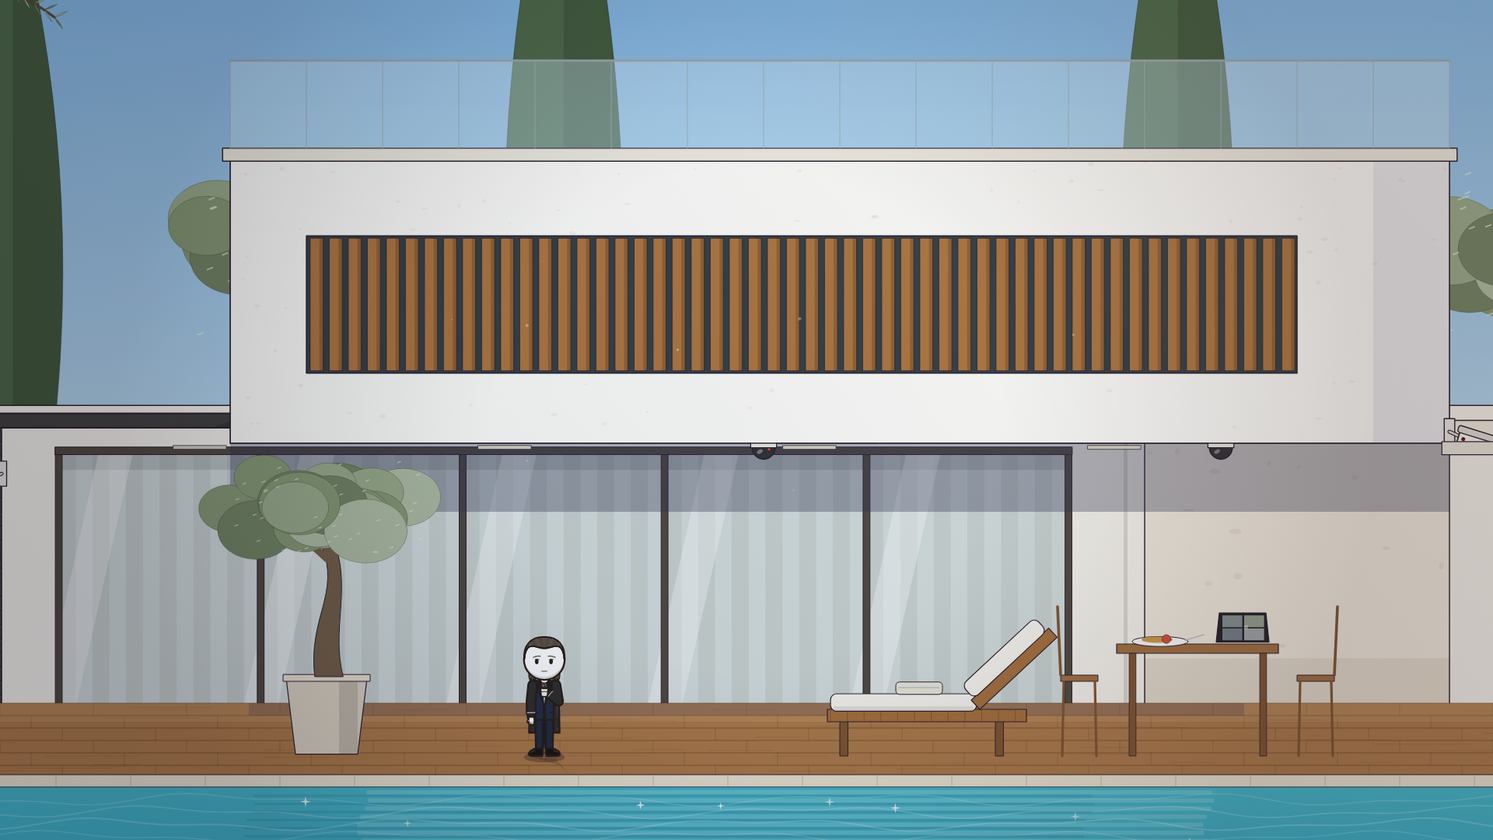
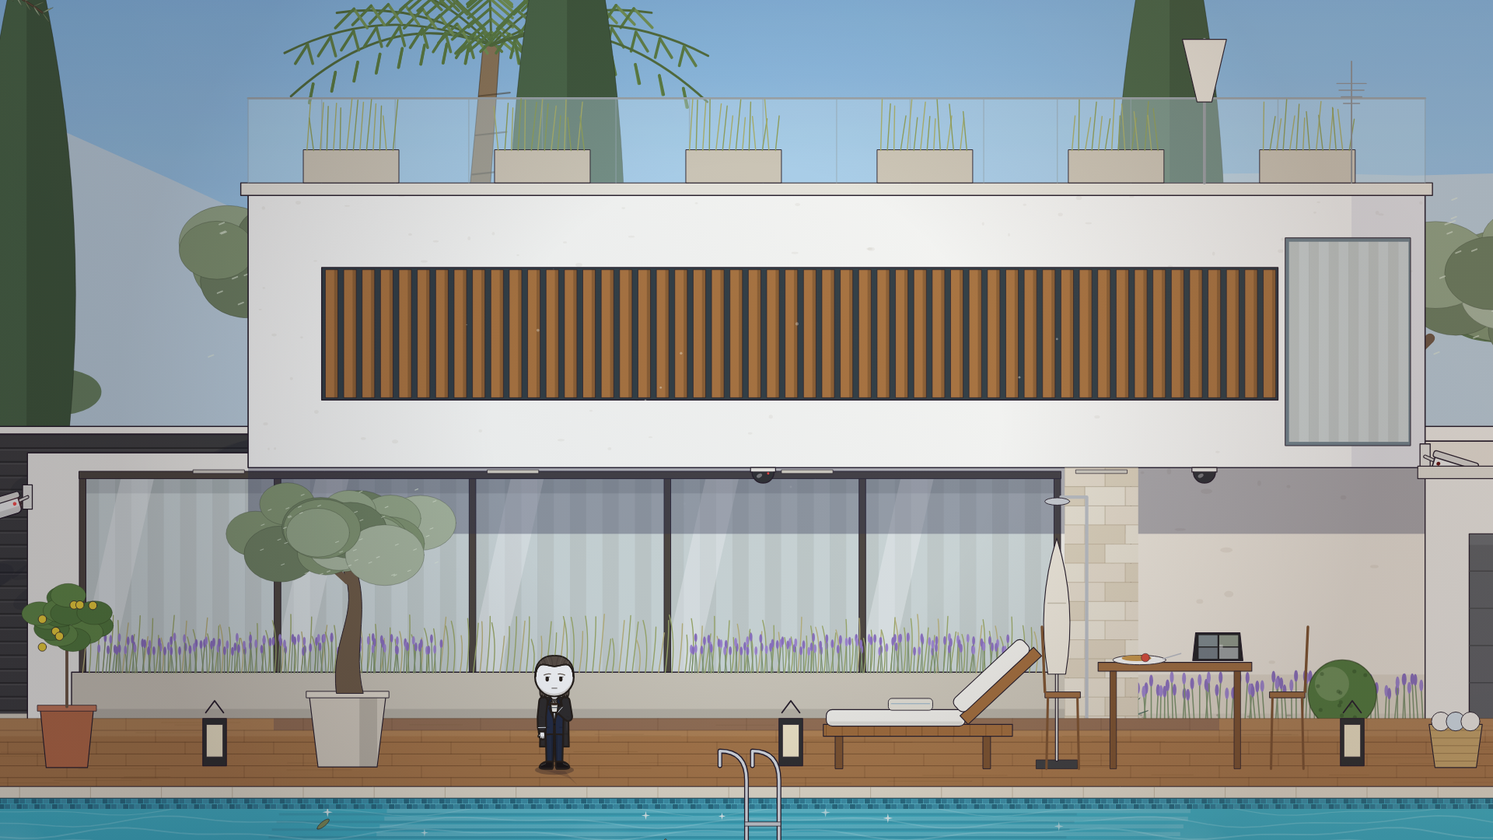
Kartell set test: richer villa/pool backgrounds, valley-view pool shot
Claude-Session: https://claude.ai/code/session_01MkQW4oba4xTMmf1VyQSTrS

diff --git a/films/kartell/lib/places.js b/films/kartell/lib/places.js
@@ -35,6 +35,22 @@ function oliveTree(c, x, y, h, seed = 0, ink = 2) {
   for (let i = 0; i < 40; i++) { const bx = x + (rnd(seed + i + 200) - .5) * h * .8, by = y - h * .72 + (rnd(seed + i + 240) - .5) * h * .4; line(c, [bx, by, bx + 10, by - 4], 3, 'rgba(230,240,220,.6)'); }
 }
 function cypress(c, x, y, h, col = '#3d5a3a') { c.beginPath(); c.moveTo(x, y - h); c.quadraticCurveTo(x + h * .13, y - h * .5, x + h * .07, y); c.lineTo(x - h * .07, y); c.quadraticCurveTo(x - h * .13, y - h * .5, x, y - h); fs(c, col, 1.5, 'rgba(20,30,20,.4)'); c.fillStyle = 'rgba(0,0,0,.15)'; c.beginPath(); c.moveTo(x, y - h); c.quadraticCurveTo(x + h * .13, y - h * .5, x + h * .07, y); c.lineTo(x, y); c.fill(); }
+function umbrellaPine(c, x, y, h, seed = 0) {
+  line(c, [x, y, x + h * .04, y - h * .6, x - h * .05, y - h * .75], h * .04, '#6b5444'); line(c, [x + h * .03, y - h * .55, x + h * .22, y - h * .74], h * .025, '#6b5444');
+  for (let i = 0; i < 9; i++) { const bx = x + (i - 4) * h * .09 + rnd(seed + i) * 20, by = y - h * .8 - Math.sin(i / 8 * Math.PI) * h * .1; c.beginPath(); c.ellipse(bx, by, h * .13, h * .07, 0, 0, Math.PI * 2); c.fillStyle = i % 2 ? '#476442' : '#56744d'; c.fill(); }
+  c.fillStyle = 'rgba(255,255,220,.12)'; c.beginPath(); c.ellipse(x - h * .1, y - h * .9, h * .25, h * .04, 0, 0, Math.PI * 2); c.fill();
+}
+function palmTree(c, x, y, h, seed = 0) {
+  const tx = x + h * .08, ty = y - h; c.beginPath(); c.moveTo(x - h * .03, y); c.quadraticCurveTo(x + h * .02, y - h * .5, tx - h * .015, ty); c.lineTo(tx + h * .015, ty); c.quadraticCurveTo(x + h * .06, y - h * .5, x + h * .03, y); c.closePath(); fs(c, '#8a7458', 1.5, 'rgba(40,30,20,.5)');
+  for (let k = 0; k < 14; k++) line(c, [x - h * .02 + k * h * .006, y - k * h * .07, x + h * .035 + k * h * .006, y - k * h * .07 - 6], 3, 'rgba(60,45,30,.5)');
+  for (let i = 0; i < 9; i++) { const a = -Math.PI + i / 8 * Math.PI + Math.sin(t0p(seed) + i) * .02, L = h * (.32 + rnd(seed + i) * .1), ex = tx + Math.cos(a) * L, ey = ty + Math.sin(a) * L * .55 + L * .25;
+    c.beginPath(); c.moveTo(tx, ty); c.quadraticCurveTo((tx + ex) / 2, ty - L * .2, ex, ey); c.lineWidth = 4; c.strokeStyle = '#4c6a3c'; c.stroke();
+    for (let k = 1; k < 9; k++) { const q = k / 9, px = tx + (ex - tx) * q, py = ty + (ey - ty) * q - Math.sin(q * Math.PI) * L * .1; line(c, [px, py, px + Math.cos(a + 1.4) * 40, py + 34], 5, i % 2 ? '#5d8048' : '#6f9254'); line(c, [px, py, px + Math.cos(a - 1.4) * 40, py + 34], 5, '#557a42'); } }
+}
+const t0p = s => (s % 7) * .3;
+function lavender(c, x, y, w, seed = 0) { for (let i = 0; i < w / 9; i++) { const bx = x + i * 9 + rnd(seed + i) * 6, h = 50 + rnd(seed + i + 7) * 40; line(c, [bx, y, bx + (rnd(i + seed) - .5) * 14, y - h], 2.5, '#7d9470'); c.fillStyle = i % 3 ? '#8a6fc0' : '#9d84d0'; c.beginPath(); c.ellipse(bx + (rnd(i + seed) - .5) * 14, y - h - 8, 4, 12, 0, 0, Math.PI * 2); c.fill(); } }
+function boxBall(c, x, y, r) { c.beginPath(); c.arc(x, y - r, r, 0, Math.PI * 2); fs(c, '#4f7a3e', 2, 'rgba(30,50,20,.6)'); c.fillStyle = 'rgba(255,255,220,.18)'; c.beginPath(); c.arc(x - r * .3, y - r * 1.3, r * .5, 0, Math.PI * 2); c.fill(); for (let i = 0; i < 12; i++) { c.fillStyle = 'rgba(30,60,25,.35)'; c.beginPath(); c.arc(x + (rnd(i + x) - .5) * r * 1.5, y - r + (rnd(i + x + 3) - .5) * r * 1.4, 4, 0, Math.PI * 2); c.fill(); } }
+function agave(c, x, y, s = 1) { for (let i = 0; i < 9; i++) { const a = -Math.PI / 2 + (i - 4) * .3; c.beginPath(); c.moveTo(x - 10 * s, y); c.quadraticCurveTo(x + Math.cos(a) * 60 * s, y + Math.sin(a) * 60 * s, x + Math.cos(a) * 110 * s, y + Math.sin(a) * 100 * s); c.quadraticCurveTo(x + Math.cos(a) * 50 * s + 14, y + Math.sin(a) * 50 * s, x + 10 * s, y); fs(c, i % 2 ? '#7fa6a0' : '#94b8b0', 1.5, 'rgba(40,70,60,.6)'); } }
 function bougainvillea(c, x, y, w, h, seed) { // dense mound of leaves on the coping with magenta bracts trailing down the wall
   for (let i = 0; i < 26; i++) { const bx = x + rnd(seed + i + 7) * w, by = y + rnd(seed + i + 70) * 60; c.beginPath(); c.ellipse(bx, by, 60, 38, 0, 0, Math.PI * 2); fs(c, i % 2 ? '#4f7a3e' : '#5f8a48', 1.5, 'rgba(30,50,20,.5)'); }
   for (let i = 0; i < 260; i++) { const bx = x + rnd(seed + i) * w, by = y - 20 + Math.pow(rnd(seed + i + 50), 2.2) * h * (1 - Math.abs(bx - x - w / 2) / w); c.beginPath(); c.ellipse(bx, by, 7 + rnd(i + seed) * 6, 6, rnd(i) * 3, 0, Math.PI * 2); c.fillStyle = ['#c8287a', '#e04a94', '#a81f66', '#d63a88'][i % 4]; c.fill(); } }
@@ -45,14 +61,35 @@ function villaSet(c, cam, t, o = {}) {
   c.setTransform(1, 0, 0, 1, 0, 0); let g = c.createLinearGradient(0, 0, 0, H); g.addColorStop(0, '#3f8fd6'); g.addColorStop(.75, '#bfe0f2'); c.fillStyle = g; c.fillRect(0, 0, W, H);
   // far: sun glare + thin clouds
   layer(c, cam, .03, c => { const b = B(.03); bloom(c, 1500, b - 2300, 1100, '255,250,225', .55); for (let i = 0; i < 5; i++) { const x = -2600 + i * 1250 + rnd(i + 5) * 300, y = b - 1700 + rnd(i + 9) * 300; c.fillStyle = 'rgba(255,255,255,.55)'; for (const [dx, dy, r] of [[0, 0, 70], [90, -20, 95], [200, 5, 60], [-80, 10, 50]]) { c.beginPath(); c.ellipse(x + dx, y + dy, r * 1.8, r * .6, 0, 0, Math.PI * 2); c.fill(); } } });
-  // far hills with cypress dots and a village
-  layer(c, cam, .1, c => { const b = B(.1); c.fillStyle = '#9db7c4'; c.beginPath(); c.moveTo(-5000, b); for (let x = -5000; x <= 5000; x += 200) c.lineTo(x, b - 260 - Math.sin(x * .0011) * 160 - Math.sin(x * .0037 + 1) * 60); c.lineTo(5000, b); c.fill();
-    for (let i = 0; i < 40; i++) { const x = -4000 + i * 200 + rnd(i) * 90; c.fillStyle = '#86a2ae'; c.beginPath(); c.ellipse(x, b - 120 - rnd(i + 3) * 80, 9, 34, 0, 0, Math.PI * 2); c.fill(); }
-    for (let i = 0; i < 14; i++) { const x = 600 + i * 60 + rnd(i + 30) * 30, y = b - 200 + rnd(i + 40) * 40; c.fillStyle = '#d6dadf'; c.fillRect(x, y, 44, 30); c.fillStyle = '#c49a86'; c.beginPath(); c.moveTo(x - 4, y); c.lineTo(x + 22, y - 16); c.lineTo(x + 48, y); c.fill(); } });
-  haze(c, '215,232,242', .28);
-  layer(c, cam, .28, c => { const b = B(.28); c.fillStyle = '#8aa486'; c.beginPath(); c.moveTo(-5000, b); for (let x = -5000; x <= 5000; x += 160) c.lineTo(x, b - 120 - Math.sin(x * .0016 + 2) * 70); c.lineTo(5000, b); c.fill();
-    for (let i = 0; i < 70; i++) { const x = -4200 + i * 120 + rnd(i + 70) * 60, y = b - 40 - rnd(i + 90) * 110; c.fillStyle = i % 7 === 0 ? '#4a6a48' : '#9fb093'; c.beginPath(); c.ellipse(x, y, 34, 22, 0, 0, Math.PI * 2); c.fill(); if (i % 7 === 0) { c.beginPath(); c.ellipse(x, y - 50, 10, 60, 0, 0, Math.PI * 2); c.fill(); } } });
-  haze(c, '225,238,245', .16);
+  // mountains, sea band with boats, coastal hill town, olive terraces, neighbour villa, umbrella pines
+  layer(c, cam, .05, c => { const b = B(.05); c.fillStyle = '#a9bfd0'; c.beginPath(); c.moveTo(-6000, b - 300); for (let x = -6000; x <= 6000; x += 150) c.lineTo(x, b - 520 - Math.abs(Math.sin(x * .0009)) * 320 - Math.sin(x * .0041) * 60); c.lineTo(6000, b - 300); c.fill();
+    const sg = c.createLinearGradient(0, b - 330, 0, b); sg.addColorStop(0, '#5f9cc4'); sg.addColorStop(1, '#7fb6d4'); c.fillStyle = sg; c.fillRect(-6000, b - 330, 12000, 340);
+    for (let i = 0; i < 60; i++) { const x = -4000 + rnd(i + 60) * 8000, y = b - 300 + rnd(i + 61) * 280, a = .3 + .7 * Math.max(0, Math.sin(t * 3 + i)); c.fillStyle = `rgba(255,255,255,${a * .7})`; c.fillRect(x, y, 26 + rnd(i) * 30, 3); }
+    for (const [bx, by, sc] of [[-1700, b - 240, 1], [900, b - 180, 1.3], [2600, b - 270, .8]]) { c.fillStyle = '#f4f4f0'; c.beginPath(); c.moveTo(bx - 40 * sc, by); c.lineTo(bx + 40 * sc, by); c.lineTo(bx + 30 * sc, by + 12 * sc); c.lineTo(bx - 30 * sc, by + 12 * sc); c.fill(); c.beginPath(); c.moveTo(bx, by - 70 * sc); c.lineTo(bx, by - 4); c.lineTo(bx + 34 * sc, by - 6); c.fill(); }
+    c.fillStyle = '#e8eaea'; c.fillRect(-3200, b - 205, 260, 26); c.fillRect(-3160, b - 225, 120, 22); // ferry far away
+  });
+  haze(c, '215,232,242', .22);
+  layer(c, cam, .14, c => { const b = B(.14);
+    c.fillStyle = '#a3b59a'; c.beginPath(); c.moveTo(-6000, b); for (let x = -6000; x <= 6000; x += 140) c.lineTo(x, b - 200 - Math.max(0, Math.sin(x * .0012 - .6)) * 300 - Math.sin(x * .005) * 30); c.lineTo(6000, b); c.fill();
+    for (let i = 0; i < 90; i++) { const x = -3200 + rnd(i + 3) * 1700 + 3000 * (i % 2), base = b - 200 - Math.max(0, Math.sin(x * .0012 - .6)) * 300; const y = base + 30 + rnd(i + 9) * 160; c.fillStyle = ['#f2ede4', '#ece2d2', '#f6f2ea', '#e3d6c2'][i % 4]; c.fillRect(x, y - 34, 50 + rnd(i) * 30, 34); c.fillStyle = i % 3 ? '#c0705a' : '#b5634e'; c.beginPath(); c.moveTo(x - 5, y - 34); c.lineTo(x + 30, y - 52); c.lineTo(x + 60 + rnd(i) * 30, y - 34); c.fill(); c.fillStyle = 'rgba(60,70,90,.45)'; c.fillRect(x + 10, y - 24, 8, 10); c.fillRect(x + 28, y - 24, 8, 10); }
+    const tx = 3150, ty = b - 330; c.fillStyle = '#ede5d6'; c.fillRect(tx, ty - 170, 46, 170); c.fillStyle = '#b5634e'; c.beginPath(); c.moveTo(tx - 8, ty - 170); c.lineTo(tx + 23, ty - 220); c.lineTo(tx + 54, ty - 170); c.fill(); c.fillStyle = 'rgba(60,70,90,.5)'; c.fillRect(tx + 16, ty - 150, 14, 24); // bell tower
+    for (let i = 0; i < 40; i++) { const x = -5000 + i * 260 + rnd(i + 40) * 80; c.fillStyle = '#7d9474'; c.beginPath(); c.ellipse(x, b - 90 - rnd(i + 41) * 110, 10, 40, 0, 0, Math.PI * 2); c.fill(); }
+  });
+  haze(c, '220,236,244', .18);
+  layer(c, cam, .3, c => { const b = B(.3);
+    c.fillStyle = '#93a985'; c.beginPath(); c.moveTo(-6000, b); for (let x = -6000; x <= 6000; x += 160) c.lineTo(x, b - 170 - Math.sin(x * .0016 + 2) * 80); c.lineTo(6000, b); c.fill();
+    for (let r = 0; r < 4; r++) { c.strokeStyle = 'rgba(150,135,110,.55)'; c.lineWidth = 5; c.beginPath(); for (let x = -6000; x <= 6000; x += 160) { const y = b - 30 - r * 42 - Math.sin(x * .0016 + 2) * 80 * (r / 4); x === -6000 ? c.moveTo(x, y) : c.lineTo(x, y); } c.stroke(); } // stone terraces
+    for (let i = 0; i < 120; i++) { const r = i % 4, x = -5000 + Math.floor(i / 4) * 330 + r * 80 + rnd(i) * 40, y = b - 40 - r * 42 - Math.sin(x * .0016 + 2) * 80 * (r / 4); c.fillStyle = ['#8fa286', '#a6b79c', '#7f9478'][i % 3]; c.beginPath(); c.ellipse(x, y - 14, 30, 20, 0, 0, Math.PI * 2); c.fill(); c.fillStyle = '#6a5a48'; c.fillRect(x - 2, y - 4, 4, 8); }
+    // neighbour villa with terracotta roof + its own camera mast, behind hedges
+    const nx = -3300, ny = b - 210; c.beginPath(); c.rect(nx, ny - 320, 900, 320); fs(c, '#efe6d6', 2); c.fillStyle = '#b8644e'; c.beginPath(); c.moveTo(nx - 40, ny - 320); c.lineTo(nx + 450, ny - 450); c.lineTo(nx + 940, ny - 320); c.closePath(); c.fill();
+    for (let i = 0; i < 5; i++) { c.fillStyle = '#5a6a74'; c.fillRect(nx + 60 + i * 170, ny - 250, 70, 100); c.fillStyle = '#4f7a55'; c.fillRect(nx + 54 + i * 170, ny - 250, 10, 100); c.fillRect(nx + 126 + i * 170, ny - 250, 10, 100); }
+    c.fillStyle = '#5d7d52'; for (let i = 0; i < 14; i++) { c.beginPath(); c.ellipse(nx - 200 + i * 90, ny + 10, 70, 50, 0, 0, Math.PI * 2); c.fill(); }
+    for (const [px, h] of [[-1200, 520], [1700, 600], [3400, 480]]) umbrellaPine(c, px, b - 100, h, px);
+  });
+  haze(c, '225,238,245', .12);
+  // closer row: palms + umbrella pines + a street lamp beyond the wall
+  layer(c, cam, .45, c => { const b = B(.45); for (const [px, h] of [[-2900, 900], [-400, 1000], [2500, 940], [4200, 880]]) palmTree(c, px, b - 200, h, px); for (const px of [-1700, 1200, 3300]) umbrellaPine(c, px, b - 160, 700, px + 3); });
+  if (o.view) { villaViewNear(c, cam, t, o, B, HZ); return { base: '#a8764a' }; }
   // boundary wall with gate, pillar camera, bougainvillea; olive trees + cypress behind it
   layer(c, cam, .6, c => { const b = B(.6); const top = b - 2.6 * KM;
     for (let i = 0; i < 6; i++) cypress(c, -2600 + i * 1150 + rnd(i + 3) * 200, top + 60, 1100 + rnd(i) * 300, '#456447');
@@ -72,6 +109,17 @@ function villaSet(c, cam, t, o = {}) {
     kRect(c, gx - 70, top + 260, 56, 80, '#2a2c30', 2); circle(c, gx - 42, top + 290, 10); c.fillStyle = '#8fa0b0'; c.fill(); // intercom
     bougainvillea(c, -800, top - 40, 700, 420, 3); bougainvillea(c, -2250, top - 50, 520, 480, 7); bougainvillea(c, -3600, top - 50, 900, 320, 9);
     kRect(c, gx - 60, top + 80, 40, 60, '#2a2c30', 2); bloom(c, gx - 40, top + 110, 60, '255,240,200', .25); // wall lamp
+    // stone cladding on the gate pillars
+    for (const px of [gx - 80, gx + gw]) { c.save(); c.beginPath(); c.rect(px, top - 70, 80, b - top + 110); c.clip(); for (let r = 0; r < 20; r++) for (let k = 0; k < 2; k++) { c.beginPath(); c.rect(px + k * 40 - (r % 2) * 20, top - 70 + r * 34, 40, 34); fs(c, ['#d8ccb6', '#cfc1a8', '#e2d7c2'][(r + k) % 3], 1.5, 'rgba(120,100,80,.5)'); } c.restore(); }
+    // sign + mailbox + gate motor
+    kRect(c, gx - 400, top + 140, 230, 120, '#f4f1ea', 2.5); c.save(); c.font = '800 26px Inter'; c.fillStyle = '#c8202a'; c.textAlign = 'center'; c.fillText('PRIVAT', gx - 285, top + 180); c.font = '700 22px Inter'; c.fillStyle = '#26282b'; c.fillText('VIDEOÜBERWACHT', gx - 285, top + 215); c.restore(); domeCam(c, gx - 285, top + 228, t);
+    kRect(c, gx - 260, top + 330, 120, 150, '#3a3c40', 2.5); kRect(c, gx - 245, top + 360, 90, 10, '#1d1e20', 1);
+    kRect(c, gx + 40, b - 120, 130, 120, '#5a5d62', 2.5); circle(c, gx + 105, b - 60, 12); c.fillStyle = Math.sin(t * 2) > 0 ? '#ffb030' : '#6a4a20'; c.fill();
+    // gravel strip and planting along the wall foot
+    c.fillStyle = '#d8d0c0'; c.fillRect(-4200, b - 10, 8400, 50); kSpecks(c, -4200, b - 8, 8400, 46, 77, 500, 'rgba(120,110,95,.4)', 4);
+    for (const [x0, w] of [[-4100, 900], [-1050, 600], [-650, 3400]]) { lavender(c, x0, b + 10, w, x0); }
+    for (const x of [-3000, -2700, -700, -350, 1400, 2200]) boxBall(c, x, b + 20, 70);
+    agave(c, -2450, b + 20, 1.1); agave(c, 900, b + 20, 1);
   });
   // the villa (white cubic, cantilevered upper floor)
   layer(c, cam, .85, c => { const b = B(.85) + 4; villaHouse(c, b, t, o); });
@@ -87,8 +135,40 @@ function villaSet(c, cam, t, o = {}) {
     // pool coping (travertine) + water
     kRect(c, -6000, 60, 12000, 40, '#e9e1cf', 2.5); for (let k = -30; k < 30; k++) line(c, [k * 240, 60, k * 240, 100], 2, 'rgba(120,100,70,.4)');
     poolWater(c, cam, t, o);
+    // mosaic band under the coping, pool ladder, underwater lights, floating leaves
+    c.save(); c.beginPath(); c.rect(-6000, 100, 12000, 36); c.clip(); for (let k = -300; k < 300; k++) { c.fillStyle = ['#2e7f9a', '#3a94ae', '#246b84'][((k % 3) + 3) % 3]; c.fillRect(k * 20, 102, 18, 16); c.fillRect(k * 20 + 10, 120, 18, 16); } c.restore();
+    for (const lx of [-2200, -200, 1800]) { bloom(c, lx, 330, 170, '210,255,250', .4); ell(c, lx, 300, 26, 12); fs(c, '#e8fbff', 2); }
+    const ladX = o.ladderX ?? 300; for (const d of [0, 110]) { c.beginPath(); c.moveTo(ladX + d, 380); c.lineTo(ladX + d, 40); c.quadraticCurveTo(ladX + d, -60, ladX + d - 90, -60); c.lineTo(ladX + d - 90, -10); c.lineWidth = 16; c.strokeStyle = OUT; c.stroke(); c.lineWidth = 9; c.strokeStyle = '#d9dde2'; c.stroke(); }
+    for (let k = 0; k < 3; k++) kRect(c, ladX - 6, 180 + k * 70, 122, 14, '#c8ccd2', 2);
+    for (let i = 0; i < 6; i++) { const lx = -2500 + rnd(i + 900) * 5000 + Math.sin(t * .3 + i) * 30, ly = 170 + rnd(i + 901) * 400; c.save(); c.translate(lx, ly); c.rotate(rnd(i) * 3); c.beginPath(); c.ellipse(0, 0, 26, 8, 0, 0, Math.PI * 2); fs(c, '#7a8c5a', 1.5); c.restore(); }
   });
   return { base: '#2aa0b8' };
+}
+// pool side facing the valley: infinity edge, glass balustrade posts, camera pole, deck with props
+function villaViewNear(c, cam, t, o, B, HZ) {
+  layer(c, cam, .72, c => { const b = B(.72);
+    // garden slope below the terrace: hedges, olive tops, lights
+    c.fillStyle = '#7f9a6c'; c.fillRect(-9000, b - 90, 18000, 200);
+    for (let i = 0; i < 40; i++) { const x = -5000 + i * 260 + rnd(i + 3) * 60; c.beginPath(); c.ellipse(x, b - 90, 130, 70, 0, Math.PI, 0); fs(c, i % 2 ? '#5f7f4e' : '#6e8d5a', 1.5, 'rgba(30,50,20,.4)'); }
+    for (const x of [-2600, -400, 1900, 3800]) oliveTree(c, x, b - 40, 520, x, 1.5);
+  });
+  layer(c, cam, .9, c => { const b = B(.9);
+    // infinity pool: water strip whose far edge meets the view
+    const top = b - 120, g = c.createLinearGradient(0, top, 0, b); g.addColorStop(0, '#8fd0e0'); g.addColorStop(1, '#2f9fb8'); c.fillStyle = g; c.fillRect(-9000, top, 18000, 120);
+    c.save(); c.globalCompositeOperation = 'screen'; for (let j = 0; j < 5; j++) { c.beginPath(); for (let x = -4000; x <= 4000; x += 60) { const y = top + 18 + j * 22 + Math.sin(x * .007 + t * 1.4 + j) * 5; x === -4000 ? c.moveTo(x, y) : c.lineTo(x, y); } c.lineWidth = 2.5; c.strokeStyle = 'rgba(230,255,255,.35)'; c.stroke(); } c.restore();
+    for (let i = 0; i < 40; i++) { const x = cam.x * .9 - 2000 + rnd(i + 70) * 4000, a = Math.max(0, Math.sin(t * 4 + i * 1.3)); if (a > .6) { c.fillStyle = `rgba(255,255,240,${a})`; star(c, x, top + 10 + rnd(i) * 100, 8, 4, .25); c.fill(); } }
+    line(c, [-9000, top, 9000, top], 4, 'rgba(240,250,255,.9)'); c.fillStyle = '#e9e1cf'; c.fillRect(-9000, b, 18000, 40);
+    // stainless camera pole with two cameras
+    const px = o.poleX ?? -900; line(c, [px, b + 10, px, b - 640], 22); line(c, [px, b + 10, px, b - 640], 12, '#c8ccd2'); secCam(c, px + 6, b - 600, 1, t, 1.3); secCam(c, px - 6, b - 470, -1, t + 1.3, 1.3);
+    // white planter boxes with lavender at the pool edge
+    for (const x of o.planters || [1300, 2600]) { kRect(c, x - 220, b - 140, 440, 140, '#ece6da', 3); lavender(c, x - 200, b - 138, 400, x); }
+  });
+  layer(c, cam, 1, c => {
+    c.fillStyle = '#a8764a'; c.fillRect(-9000, HZ, 18000, 2000);
+    for (let r = 0; r < 14; r++) { const y = HZ + r * 46; line(c, [-9000, y, 9000, y], 2.5, 'rgba(70,40,20,.45)'); for (let k = -40; k < 40; k++) { const x = k * 300 + (r % 3) * 100; line(c, [x, y, x, y + 46], 2, 'rgba(70,40,20,.3)'); } }
+    c.save(); c.globalAlpha = .18; for (let i = 0; i < 80; i++) { const x = -3000 + rnd(i + 3) * 6000, y = HZ + rnd(i + 7) * 600; line(c, [x, y + 10, x + 120 + rnd(i) * 200, y + 10], 2, '#5a3a1e'); } c.restore();
+    villaProps(c, t, o);
+  });
 }
 function villaHouse(c, b, t, o) {
   const g0 = b - 3.3 * KM, g1 = g0 - 3.2 * KM; // ground floor top, upper floor top
@@ -118,12 +198,27 @@ function villaHouse(c, b, t, o) {
   // soffit (shadow under cantilever)
   c.fillStyle = 'rgba(40,45,80,.35)'; c.fillRect(-1100, g0 + 40, 3200, 180);
   domeCam(c, 300, g0 + 40, t); domeCam(c, 1500, g0 + 40, t + 3);
+  // long concrete planter with grasses + lavender along the glass front
+  kRect(c, gx0 - 30, b - 130, gw + 60, 130, '#cfc8ba', 3); c.fillStyle = 'rgba(0,0,0,.1)'; c.fillRect(gx0 - 30, b - 30, gw + 60, 30);
+  for (let i = 0; i < gw / 18; i++) { const x = gx0 + i * 18, h = 90 + rnd(i + 5) * 70; c.beginPath(); c.moveTo(x, b - 128); c.quadraticCurveTo(x + 10, b - 128 - h * .6, x + 24 * (rnd(i) - .3), b - 128 - h); c.lineWidth = 3; c.strokeStyle = i % 3 ? '#9aa86a' : '#b8b07a'; c.stroke(); }
+  lavender(c, gx0 + 40, b - 128, gw * .35, 5); lavender(c, gx0 + gw * .62, b - 128, gw * .33, 9);
+  // travertine cladding on the solid ground-floor wall to the right of the glass
+  c.save(); c.beginPath(); c.rect(gx0 + gw + 20, g0 + 40, 1300 - gx0 - gw, b - g0 - 40); c.clip(); for (let r = 0; r < 16; r++) for (let k = 0; k < 6; k++) { c.beginPath(); c.rect(gx0 + gw + 20 + k * 110 - (r % 2) * 55, g0 + 40 + r * 52, 110, 52); fs(c, ['#e6dccb', '#ddd1bc', '#ebe3d4'][(r + k) % 3], 1.2, 'rgba(150,130,100,.5)'); } c.restore();
+  // outdoor shower on the travertine wall
+  line(c, [1180, b, 1180, g0 + 120, 1110, g0 + 120], 9, '#b8bcc2'); ell(c, 1100, g0 + 132, 34, 10); fs(c, '#c8ccd2', 2);
   // linear wall lights
   for (const x of [-1250, -450, 350, 1150]) { kRect(c, x, g0 + 46, 140, 10, '#cfcac0', 1.5); }
+  // second floor balcony on the right with its own closed curtains + plant pots
+  kRect(c, 1720, g1 + 120, 340, g0 - g1 - 140, '#4d5a62', 3); for (let i = 0; i < 12; i++) { c.fillStyle = i % 2 ? '#d9d4ca' : '#c8c2b6'; c.fillRect(1730 + i * 27, g1 + 130, 28, g0 - g1 - 160); }
+  c.fillStyle = 'rgba(190,225,245,.3)'; c.fillRect(1720, g1 + 120, 340, g0 - g1 - 140);
   // roof parapet + glass balustrade terrace on the roof
   kRect(c, -1120, g1 - 30, 3240, 34, '#ece8de', 3);
   c.fillStyle = 'rgba(200,230,245,.4)'; c.fillRect(-1100, g1 - 260, 3200, 230); line(c, [-1100, g1 - 260, 2100, g1 - 260], 6, '#9aa4aa');
   for (let i = 0; i <= 16; i++) line(c, [-1100 + i * 200, g1 - 260, -1100 + i * 200, g1 - 30], 3, 'rgba(150,170,180,.6)');
+  // roof garden behind the glass: grasses in planters, a folded parasol, an antenna mast
+  for (let i = 0; i < 6; i++) { const px = -950 + i * 520; kRect(c, px, g1 - 120, 260, 90, '#d0c8b8', 2); for (let k = 0; k < 14; k++) { const x = px + 10 + k * 18; line(c, [x, g1 - 118, x + (rnd(k + i) - .5) * 30, g1 - 200 - rnd(k + i * 3) * 60], 3, k % 2 ? '#8ea05c' : '#a8b06c'); } }
+  line(c, [1500, g1 - 30, 1500, g1 - 420], 8, '#9aa0a6'); c.beginPath(); c.moveTo(1440, g1 - 420); c.lineTo(1560, g1 - 420); c.lineTo(1520, g1 - 250); c.lineTo(1480, g1 - 250); c.closePath(); fs(c, '#efe9dc', 2.5);
+  line(c, [1900, g1 - 30, 1900, g1 - 360], 4, '#8a9096'); for (let k = 0; k < 4; k++) line(c, [1860 + k * 6, g1 - 300 + k * 18, 1940 - k * 6, g1 - 300 + k * 18], 3, '#8a9096');
   // corner security camera
   secCam(c, 2100, g0 + 10, 1, t + 1, 1.15); secCam(c, -1700, g0 + 120, -1, t + 2, 1.1);
   // garage wing: three closed sectional doors
@@ -144,6 +239,13 @@ function villaProps(c, t, o) {
   c.beginPath(); c.roundRect(lx - 330, -200, 470, 56, 20); fs(c, '#f4f1ea', 3); c.fillStyle = 'rgba(0,0,0,.08)'; c.fillRect(lx - 320, -160, 450, 14);
   c.save(); c.translate(lx + 150, -150); c.rotate(-.75); kRect(c, 0, -40, 340, 40, '#a06a3c', 3); c.beginPath(); c.roundRect(10, -96, 320, 58, 20); fs(c, '#f4f1ea', 3); c.restore();
   c.beginPath(); c.roundRect(lx - 120, -238, 150, 40, 12); fs(c, '#e7e2d6', 2.5); line(c, [lx - 110, -220, lx + 20, -220], 3, '#8fb0c8');
+  // closed parasol, deck lanterns, lemon tree pot, basket with rolled towels
+  const ps = o.parasolX ?? 1350; kRect(c, ps - 70, -30, 140, 30, '#3a3c40', 2); line(c, [ps, -30, ps, -760], 12); line(c, [ps, -30, ps, -760], 6, '#d8d4cc'); c.beginPath(); c.moveTo(ps, -780); c.quadraticCurveTo(ps - 70, -560, ps - 30, -320); c.lineTo(ps + 30, -320); c.quadraticCurveTo(ps + 70, -560, ps, -780); fs(c, '#efe8da', 3); line(c, [ps - 30, -560, ps + 30, -560], 4, '#c8bfae');
+  for (const lx of o.lanterns || [-1500, 450, 2350]) { kRect(c, lx - 40, -170, 80, 160, '#2a2c30', 3); kRect(c, lx - 28, -150, 56, 110, '#f4e8c8', 2); line(c, [lx - 30, -190, lx, -230, lx + 30, -190], 5); }
+  const lm = o.lemonX ?? -2000; c.beginPath(); c.moveTo(lm - 90, -200); c.lineTo(lm + 90, -200); c.lineTo(lm + 70, -4); c.lineTo(lm - 70, -4); c.closePath(); fs(c, '#b86a48', 3); kRect(c, lm - 100, -215, 200, 20, '#c8785a', 2); line(c, [lm, -210, lm, -420], 10, '#6b5444');
+  for (let i = 0; i < 14; i++) { const a = i / 14 * Math.PI * 2, bx = lm + Math.cos(a) * 110 * rnd(i + 5), by = -520 + Math.sin(a) * 90 * rnd(i + 6); c.beginPath(); c.ellipse(bx, by, 60, 40, 0, 0, Math.PI * 2); fs(c, i % 2 ? '#4f7a3e' : '#5f8a48', 1.5, 'rgba(30,50,20,.6)'); }
+  for (let i = 0; i < 7; i++) { circle(c, lm - 90 + rnd(i + 30) * 180, -560 + rnd(i + 31) * 150, 14); fs(c, '#f2d23a', 2); }
+  const bk = o.basketX ?? 2700; c.beginPath(); c.moveTo(bk - 90, -150); c.lineTo(bk + 90, -150); c.lineTo(bk + 70, -4); c.lineTo(bk - 70, -4); c.closePath(); fs(c, '#c8a46a', 3); for (let k = 0; k < 5; k++) line(c, [bk - 84 + k * 4, -130 + k * 26, bk + 84 - k * 4, -130 + k * 26], 2, 'rgba(90,60,30,.5)'); for (let k = 0; k < 3; k++) { circle(c, bk - 50 + k * 50, -160, 32); fs(c, ['#f4f1ea', '#d9e6ee', '#f4f1ea'][k], 2.5); }
   // outdoor table: half-eaten lunch + tablet with the camera feed
   const tx = o.tableX ?? 1750; kRect(c, tx - 260, -360, 520, 30, '#9c6a40', 3); for (const d of [-220, 200]) kRect(c, tx + d, -330, 22, 330, '#7a5030', 2);
   ell(c, tx - 120, -368, 90, 16); fs(c, '#fbfaf6', 2.5); ell(c, tx - 130, -374, 50, 10); fs(c, '#c8954a', 0); circle(c, tx - 100, -376, 14); fs(c, '#d8483a', 1.5); line(c, [tx - 40, -372, tx + 20, -390], 4, '#b8bcc4'); // plate, fork

diff --git a/films/kartell-set/scenes.js b/films/kartell-set/scenes.js
@@ -4,16 +4,16 @@ const still = (name, f) => SHOTS.push({ name, dur: 1, f });
 const blankSet = col => (c) => { c.setTransform(1, 0, 0, 1, 0, 0); c.fillStyle = col; c.fillRect(0, 0, W, H); return { base: col }; };
 const NOAH_CUP = { l: { a: .1, b: -.12 }, r: { a: .16, b: -2.45 } };
 // a1: villa wide, noon
-still('a1 villa wide', (lt, T, t) => { const v = { x: 300, y: -1080, z: .4 };
+still('a1 villa wide', (lt, T, t) => { const v = { x: 300, y: -1180, z: .38 };
   return { set: villaSet, setOpts: {}, cam: v, vignette: .18,
     behind: [c => castShadow(c, -350, 120, { len: .4, alpha: .3 })],
     front: [c => drawNoahK(c, { x: -350, y: 0, k: .25, ink: 1.8, outfit: 'boss', arms: NOAH_CUP, expr: KX.paranoid, holdFront: (c, gl, gr) => kCup(c, gr, 1, t) })],
     screen: [c => villaLight(c, v, t), c => villaFront(c, v, t, { side: -1 })] }; });
-// a2: villa, Noah with coffee, eyes on the gate
-still('a2 villa noah', (lt, T, t) => { const v = { x: -2250, y: -330, z: 1.3 };
-  return { set: villaSet, setOpts: { potX: -3150, loungerX: -700 }, cam: v, vignette: .2,
-    behind: [c => castShadow(c, -2080, 120, { len: .4, alpha: .32 })],
-    front: [c => drawNoahK(c, { x: -2080, y: 0, k: .25, ink: 1.8, outfit: 'boss', arms: NOAH_CUP, expr: KX.paranoid, holdFront: (c, gl, gr) => kCup(c, gr, 1, t + .3) })],
+// a2: infinity pool side facing the valley: Noah with coffee, eyes to the side, camera pole behind him
+still('a2 villa noah', (lt, T, t) => { const v = { x: 150, y: -330, z: 1.3 };
+  return { set: villaSet, setOpts: { view: true, potX: -2400, loungerX: 860, tableX: 2900, lemonX: -560, lanterns: [-720], parasolX: 2350, basketX: -3200, poleX: -300, planters: [700, 2000] }, cam: v, vignette: .2,
+    behind: [c => castShadow(c, 120, 120, { len: .4, alpha: .32 })],
+    front: [c => drawNoahK(c, { x: 120, y: 0, k: .25, ink: 1.8, outfit: 'boss', arms: NOAH_CUP, expr: KX.paranoid, holdFront: (c, gl, gr) => kCup(c, gr, 1, t + .3) })],
     screen: [c => villaLight(c, v, t), c => villaFront(c, v, t, { side: 1 })] }; });
 // b: warehouse, Noah carries a box, tired
 still('b lager', (lt, T, t) => { const v = { x: -120, y: -470, z: 1.0 };
